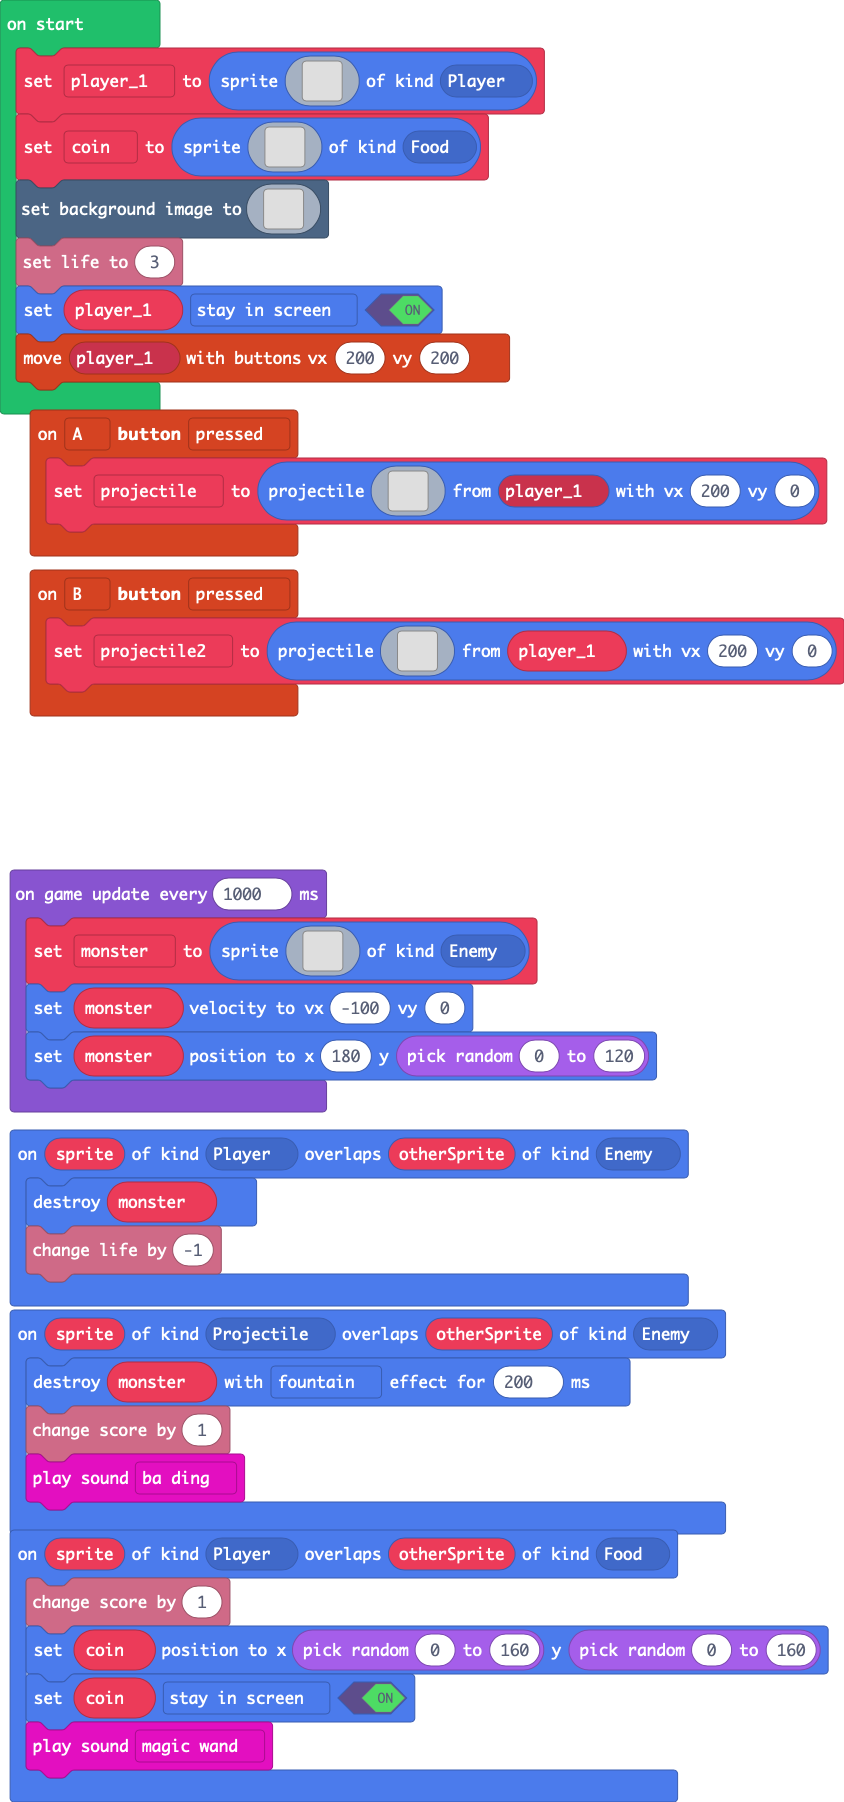
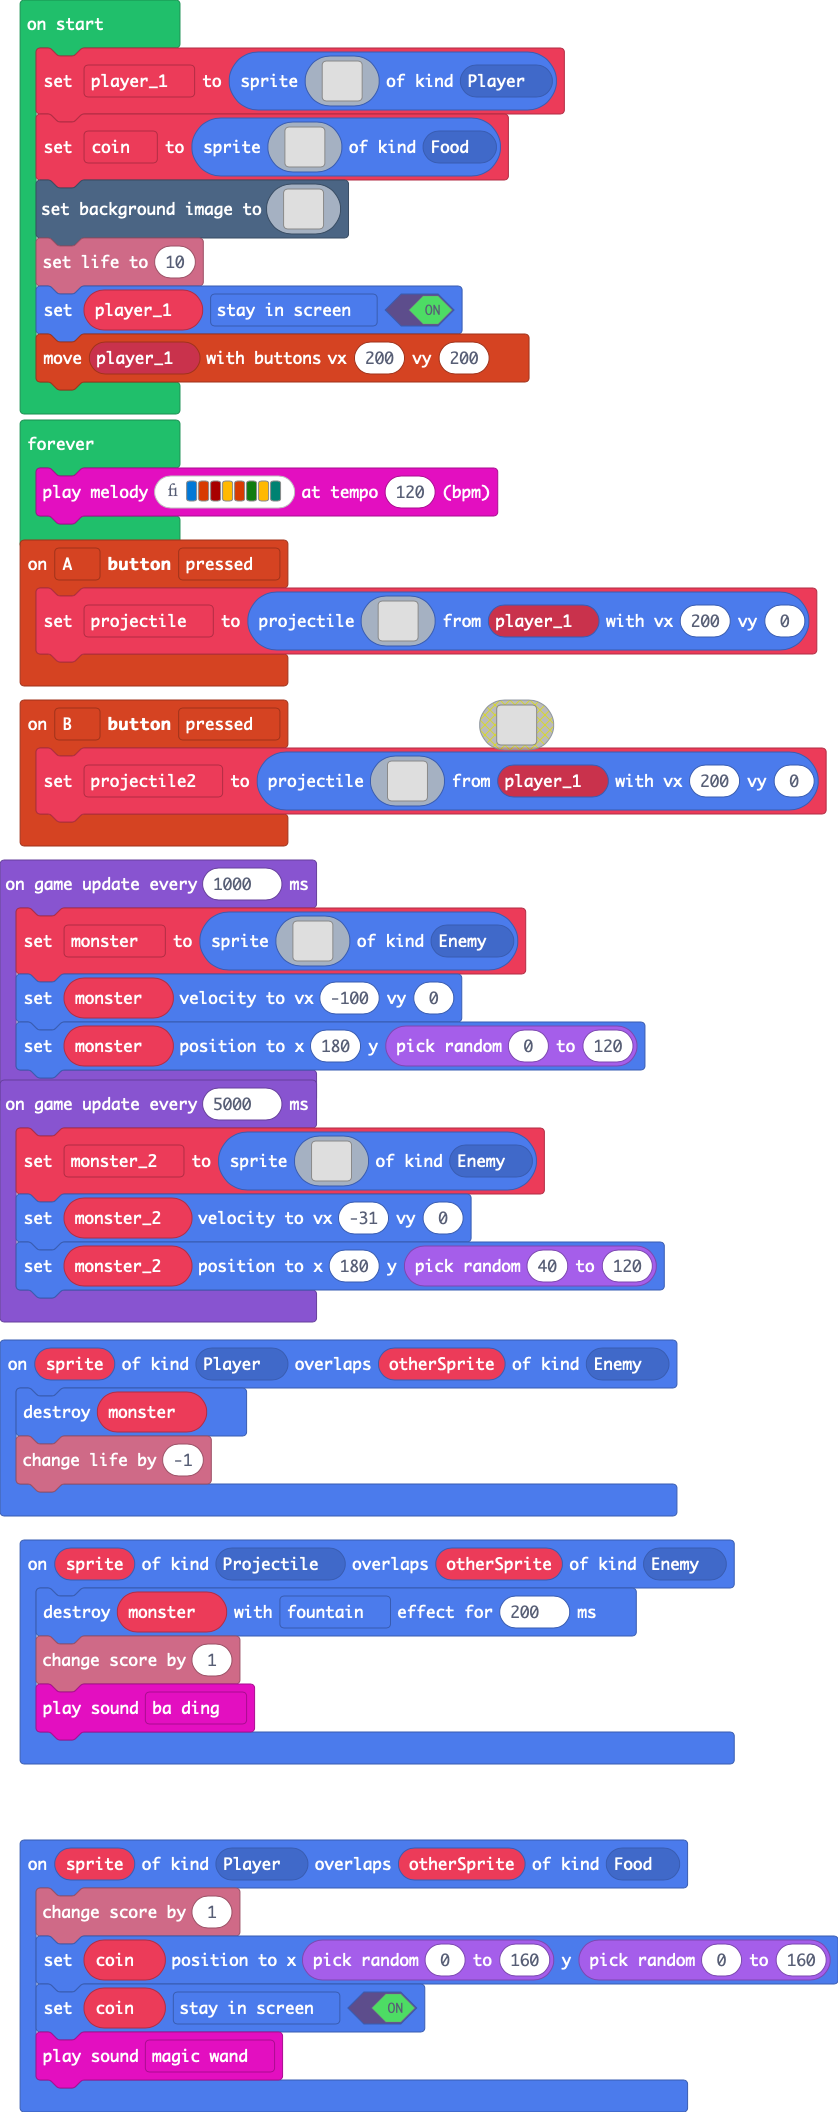
added in a new monster, audio and finished the game

diff --git a/main.ts b/main.ts
@@ -53,6 +53,7 @@ sprites.onOverlap(SpriteKind.Player, SpriteKind.Enemy, function (sprite, otherSp
     monster.destroy()
     info.changeLifeBy(-1)
 })
+let monster_2: Sprite = null
 let projectile: Sprite = null
 let monster: Sprite = null
 let projectile2: Sprite = null
@@ -216,9 +217,42 @@ d d d d d d d d d d d d d d d d d d d d d d d d d d d d d d d d d d d d d d d d 
 d d d d d d d d d d d d d d d d d d d d d d d d d d d d d d d d d d d d d d d d d d d d d d d d d d d d d d d d d d d d d d d d d d d d d d d d d d d d d d d d d d d d d d d d d d d d d d d d d d d d d d d d d d d d d d d d d d d d d d d d d d d d d d d d d d d d d d d d d d d d d d d d d d d d d d d d d d d d d d d d 
 d d d d d d d d d d d d d d d d d d d d d d d d d d d d d d d d d d d d d d d d d d d d d d d d d d d d d d d d d d d d d d d d d d d d d d d d d d d d d d d d d d d d d d d d d d d d d d d d d d d d d d d d d d d d d d d d d d d d d d d d d d d d d d d d d d d d d d d d d d d d d d d d d d d d d d d d d d d d d d d d 
 `)
-info.setLife(3)
+info.setLife(10)
 player_1.setFlag(SpriteFlag.StayInScreen, true)
 controller.moveSprite(player_1, 200, 200)
+game.onUpdateInterval(5000, function () {
+    monster_2 = sprites.create(img`
+. . . . . . . . . . . . . . . . . . . . . . . . 
+. . . . . . . . . . . . . . . . . . . . . . . . 
+. . . . . . . . . . . . . . . . . . . . . . . . 
+. . . . . . . . . . . . . . . . . . . . . . . . 
+. . . . . . . . . . f f f f f . . . . . . . . . 
+. . . . . . . . f f 2 2 2 2 b f f . . . . . . . 
+. . . . . . . f b 2 2 2 2 2 2 2 b f . . . . . . 
+. . . . . . . f 2 2 2 2 2 2 2 2 2 f . . . . . . 
+. . . . . . f 2 2 2 2 2 2 2 2 f f f f . . . . . 
+. . . . . . f 2 2 2 2 2 2 2 c 2 2 2 b f . . . . 
+. . . . . . f b 2 2 f c 2 f 2 b 2 b f f . . . . 
+. . . . . . f 2 2 2 2 2 b f b f b f f . . . . . 
+. . . . . . f 2 b 2 b 2 f c f f f f . . . . . . 
+. . . . . . f b f b f c f c c c f . . . . . . . 
+. . . . . . f f f f f f f f f f . . . . . . . . 
+. . . . . . . . . f f f f f f . . . . . . . . . 
+. . . . . . . . . f f f f f f . . . . . . . . . 
+. . . . . . . . . f f f f f f f . . f . . . . . 
+. . . . . . . . . . f f f f f f f f f . . . . . 
+. . . . . . . . . . . f f f f f f f . . . . . . 
+. . . . . . . . . . . . . . . . . . . . . . . . 
+. . . . . . . . . . . . . . . . . . . . . . . . 
+. . . . . . . . . . . . . . . . . . . . . . . . 
+. . . . . . . . . . . . . . . . . . . . . . . . 
+`, SpriteKind.Enemy)
+    monster_2.setVelocity(-31, 0)
+    monster_2.setPosition(180, Math.randomRange(40, 120))
+})
+forever(function () {
+    music.playMelody("E B C5 A B G A F ", 120)
+})
 game.onUpdateInterval(1000, function () {
     monster = sprites.create(img`
 . . . . . . . . . . . . . . . . . . . . . . . . 
